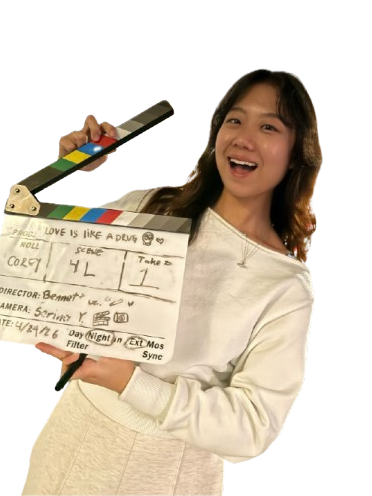
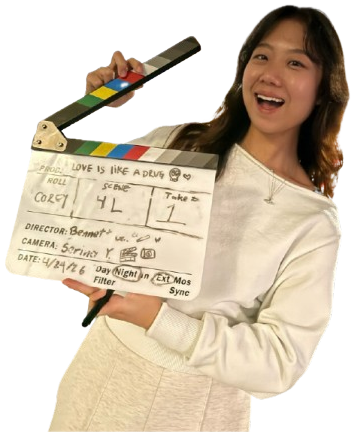
Finish the round: full skills list, blog centering/sizing, tighter landing
- Engineering: replaced the skills-strip with the full categorized
  list (Hardware / Software / Languages / Verification & ML).
- Blog: centered the header and post list (they were flush against
  the left edge with a huge empty right margin on wide screens —
  that's the "on one side only" issue), bumped up the post-row title/
  excerpt font sizes, and enlarged the essay body copy for readability.
- Landing: pulled the photo and intro text closer together.

The grey grid-line background on project/film cards and the BTS
carousel's move to a continuous rolling marquee (no pagination) were
already fixed earlier in this session.

diff --git a/film/index.html b/film/index.html
@@ -25,10 +25,10 @@
   .section-label span { font-size: 0.6rem; letter-spacing: 0.24em; text-transform: uppercase; color: var(--accent); }
   .section-label::after { content: ''; flex: 1; height: 1px; background: var(--border); max-width: 260px; }
 
-  .grid-2 { display: grid; grid-template-columns: repeat(auto-fit, minmax(320px, 1fr)); gap: 1.5px; background: var(--border); border: 1px solid var(--border); }
-  .grid-3 { display: grid; grid-template-columns: repeat(auto-fit, minmax(260px, 1fr)); gap: 1.5px; background: var(--border); border: 1px solid var(--border); }
+  .grid-2 { display: grid; grid-template-columns: repeat(auto-fit, minmax(320px, 1fr)); gap: 20px; }
+  .grid-3 { display: grid; grid-template-columns: repeat(auto-fit, minmax(260px, 1fr)); gap: 20px; }
 
-  .card { background: var(--bg); overflow: hidden; transition: background 0.25s; }
+  .card { background: var(--bg); border: 1px solid var(--border); overflow: hidden; transition: background 0.25s; }
   .card:hover { background: var(--surface); }
 
   .video-wrap { position: relative; padding-bottom: 56.25%; background: #1c1712; }
@@ -45,35 +45,36 @@
   .btn-ghost { display: inline-flex; align-items: center; font-family: 'Source Sans 3', sans-serif; letter-spacing: 0.14em; text-transform: uppercase; text-decoration: none; color: var(--accent); border: 1px solid var(--accent-line); transition: border-color 0.2s, background 0.2s; }
   .btn-ghost:hover { background: var(--accent-soft); }
 
-  .insta-card { background: var(--bg); display: flex; flex-direction: column; }
+  .insta-card { background: var(--bg); border: 1px solid var(--border); display: flex; flex-direction: column; }
   .insta-preview { background: var(--surface); height: 190px; display: flex; flex-direction: column; align-items: center; justify-content: center; gap: 0.8rem; border-bottom: 1px solid var(--border); }
   .insta-icon { width: 46px; height: 46px; }
   .insta-preview p { font-size: 0.65rem; color: var(--muted); letter-spacing: 0.05em; }
   .insta-foot { padding: 1.1rem 1.5rem; display: flex; align-items: center; justify-content: space-between; }
 
-  /* BTS carousel */
-  #bts { padding: 4.5rem 0; }
+  /* BTS -- continuous rolling strip, no pagination */
+  #bts { padding: 4.5rem 0; overflow: hidden; }
   .bts-header { max-width: 1140px; margin: 0 auto 2rem; padding: 0 3rem; }
   .bts-header .section-label { margin-bottom: 0; }
 
-  .bts-carousel { max-width: 1140px; margin: 0 auto; padding: 0 3rem; }
-  .bts-track-wrap { overflow: hidden; border: 1px solid var(--border); }
-  .bts-track { display: flex; transition: transform 0.35s ease; }
-  .bts-slide { flex: 0 0 100%; }
-  .bts-slide img {
-    width: 100%; height: 420px; object-fit: cover; display: block;
-    filter: saturate(0.82) sepia(0.08) contrast(0.96) brightness(1.02);
+  .bts-track {
+    display: flex;
+    gap: 16px;
+    width: max-content;
+    animation: btsScroll 20s linear infinite;
+  }
+  .bts-track:hover { animation-play-state: paused; }
+
+  .bts-slide { flex-shrink: 0; height: 380px; border: 1px solid var(--border); overflow: hidden; }
+  .bts-slide img { height: 100%; width: auto; display: block; object-fit: cover; }
+
+  @keyframes btsScroll {
+    from { transform: translateX(0); }
+    to { transform: translateX(-50%); }
   }
 
-  .bts-controls { display: flex; align-items: center; justify-content: center; gap: 1.5rem; margin-top: 1.2rem; }
-  .bts-arrow {
-    width: 32px; height: 32px; border: 1px solid var(--border-strong); background: transparent;
-    display: flex; align-items: center; justify-content: center; cursor: pointer; color: var(--text);
-    transition: border-color 0.2s, color 0.2s;
+  @media (prefers-reduced-motion: reduce) {
+    .bts-track { animation: none; }
   }
-  .bts-arrow:hover { border-color: var(--accent); color: var(--accent); }
-  .bts-arrow svg { width: 14px; height: 14px; stroke: currentColor; fill: none; stroke-width: 1.6; }
-  .bts-counter { font-size: 0.65rem; letter-spacing: 0.1em; color: var(--muted); min-width: 3.2rem; text-align: center; }
 
   /* in-page sub-nav with scroll-spy, sits just below the sticky main nav */
   .sub-nav {
@@ -235,22 +236,11 @@
     <div class="bts-header">
       <div class="section-label"><span>Behind the Scenes — APCA Fall Short</span></div>
     </div>
-    <div class="bts-carousel">
-      <div class="bts-track-wrap">
-        <div class="bts-track">
-          <div class="bts-slide"><img src="assets/bts-1.jpg" alt="Behind the scenes, part 1"></div>
-          <div class="bts-slide"><img src="assets/bts-2.jpg" alt="Behind the scenes, part 2"></div>
-        </div>
-      </div>
-      <div class="bts-controls">
-        <button class="bts-arrow" data-dir="-1" aria-label="Previous photo">
-          <svg viewBox="0 0 24 24"><polyline points="15 18 9 12 15 6"/></svg>
-        </button>
-        <span class="bts-counter"><span class="bts-current">01</span> / <span class="bts-total">02</span></span>
-        <button class="bts-arrow" data-dir="1" aria-label="Next photo">
-          <svg viewBox="0 0 24 24"><polyline points="9 18 15 12 9 6"/></svg>
-        </button>
-      </div>
+    <div class="bts-track">
+      <div class="bts-slide"><img src="assets/bts-1.jpg" alt="Behind the scenes, part 1"></div>
+      <div class="bts-slide"><img src="assets/bts-2.jpg" alt="Behind the scenes, part 2"></div>
+      <div class="bts-slide" aria-hidden="true"><img src="assets/bts-1.jpg" alt=""></div>
+      <div class="bts-slide" aria-hidden="true"><img src="assets/bts-2.jpg" alt=""></div>
     </div>
   </section>
 

diff --git a/blog/index.html b/blog/index.html
@@ -10,15 +10,15 @@
 <style>
   main { position: relative; z-index: 1; min-height: calc(100vh - 130px); }
 
-  .header { padding: 4.5rem 3rem 3rem; max-width: 720px; }
-  .header-label { font-size: 0.65rem; letter-spacing: 0.24em; text-transform: uppercase; color: var(--accent); margin-bottom: 1.1rem; }
-  .header h1 { font-family: 'Cormorant Garamond', serif; font-size: clamp(2.2rem, 5vw, 3.4rem); font-weight: 500; margin-bottom: 1.2rem; }
+  .header { padding: 4.5rem 3rem 3rem; max-width: 720px; margin: 0 auto; }
+  .header-label { font-size: 0.68rem; letter-spacing: 0.24em; text-transform: uppercase; color: var(--accent); margin-bottom: 1.1rem; }
+  .header h1 { font-family: 'Cormorant Garamond', serif; font-size: clamp(2.8rem, 6vw, 4.2rem); font-weight: 500; margin-bottom: 1.2rem; }
   .header h1 em { font-style: italic; color: var(--accent); font-weight: 400; }
-  .header p { font-size: 0.8rem; color: var(--muted); max-width: 480px; line-height: 1.9; }
+  .header p { font-size: 0.9rem; color: var(--muted); max-width: 480px; line-height: 1.9; }
 
   .divider { margin: 0 3rem; border: none; border-top: 1px solid var(--border); }
 
-  .posts { padding: 2.5rem 3rem 4rem; max-width: 800px; display: flex; flex-direction: column; }
+  .posts { padding: 2.5rem 3rem 4rem; max-width: 800px; margin: 0 auto; display: flex; flex-direction: column; }
 
   .post-row {
     display: flex; justify-content: space-between; align-items: baseline; gap: 1.5rem;
@@ -26,10 +26,10 @@
     text-decoration: none; color: var(--text); transition: opacity 0.2s, padding-left 0.2s;
   }
   .post-row:hover { opacity: 0.75; padding-left: 0.4rem; }
-  .post-row-main { display: flex; flex-direction: column; gap: 0.4rem; }
-  .post-row-title { font-family: 'Cormorant Garamond', serif; font-size: 1.3rem; font-weight: 500; }
-  .post-row-excerpt { font-size: 0.7rem; color: var(--muted); line-height: 1.7; max-width: 46ch; }
-  .post-row-meta { font-size: 0.62rem; letter-spacing: 0.08em; text-transform: uppercase; color: var(--muted); white-space: nowrap; }
+  .post-row-main { display: flex; flex-direction: column; gap: 0.5rem; }
+  .post-row-title { font-family: 'Cormorant Garamond', serif; font-size: 1.7rem; font-weight: 500; }
+  .post-row-excerpt { font-size: 0.9rem; color: var(--muted); line-height: 1.7; max-width: 50ch; }
+  .post-row-meta { font-size: 0.68rem; letter-spacing: 0.08em; text-transform: uppercase; color: var(--muted); white-space: nowrap; }
 
   @media (max-width: 640px) {
     .header, .divider, .posts { padding-left: 1.5rem; padding-right: 1.5rem; }
@@ -53,7 +53,7 @@
 
   <div class="header">
     <p class="header-label">Essays &amp; Notes</p>
-    <h1>Written <em>things</em></h1>
+    <h1>Writing</h1>
   </div>
 
   <hr class="divider">

diff --git a/engineering/index.html b/engineering/index.html
@@ -32,20 +32,20 @@
   .eng-link:hover { border-color: var(--accent); color: var(--accent); }
   .eng-link svg { width: 14px; height: 14px; stroke: currentColor; fill: none; stroke-width: 1.6; }
 
-  .skills-strip { display: flex; justify-content: center; gap: 3rem; flex-wrap: wrap; }
+  .skills-strip { display: flex; justify-content: center; gap: 2.75rem; flex-wrap: wrap; }
+  .skill-group { max-width: 220px; text-align: left; }
   .skill-label { font-size: 0.58rem; letter-spacing: 0.2em; text-transform: uppercase; color: var(--accent); margin-bottom: 0.5rem; }
-  .skill-list { font-size: 0.68rem; color: var(--muted); letter-spacing: 0.04em; line-height: 1.8; }
+  .skill-list { font-size: 0.68rem; color: var(--muted); letter-spacing: 0.02em; line-height: 1.75; }
 
   .projects {
     display: grid;
     grid-template-columns: repeat(auto-fit, minmax(280px, 1fr));
-    gap: 1px;
-    background: var(--border);
-    border: 1px solid var(--border);
+    gap: 20px;
   }
 
   .project-card {
     background: var(--bg);
+    border: 1px solid var(--border);
     padding: 2.1rem 1.8rem;
     display: flex;
     flex-direction: column;
@@ -100,21 +100,21 @@
       </a>
     </div>
     <div class="skills-strip">
-      <div>
-        <p class="skill-label">Languages</p>
-        <p class="skill-list">C / C++<br>JavaScript<br>SQL</p>
-      </div>
-      <div>
-        <p class="skill-label">Web</p>
-        <p class="skill-list">React<br>Node.js / Express<br>HTML / CSS</p>
-      </div>
-      <div>
+      <div class="skill-group">
         <p class="skill-label">Hardware</p>
-        <p class="skill-list">Arduino<br>BLE / I&sup2;C<br>MAX30102 &middot; VL53L0X &middot; HTS221</p>
+        <p class="skill-list">FPGA, Microcontrollers, Digital Logic, FSM, SPI, UART, TCP/IP, DPI, SCPI, Soldering, KiCad, LTspice</p>
       </div>
-      <div>
-        <p class="skill-label">Tools</p>
-        <p class="skill-list">Docker<br>MySQL<br>Git</p>
+      <div class="skill-group">
+        <p class="skill-label">Software</p>
+        <p class="skill-list">React/Next.js, Node.js, RESTful APIs, MySQL, AWS, Docker, Git/GitHub, Jupyter, Google Cloud</p>
+      </div>
+      <div class="skill-group">
+        <p class="skill-label">Languages</p>
+        <p class="skill-list">Python, Java, C, C++, TypeScript/JavaScript, MATLAB, HTML/CSS, Verilog/SystemVerilog</p>
+      </div>
+      <div class="skill-group">
+        <p class="skill-label">Verification &amp; ML</p>
+        <p class="skill-list">QuestaSim, FPGA Testbenches, Waveform Analysis, TinyML, Neural Networks</p>
       </div>
     </div>
   </div>

diff --git a/js/interactions.js b/js/interactions.js
@@ -25,58 +25,4 @@
 
     spySections.forEach(function (s) { spyIO.observe(s.section); });
   }
-
-  // BTS carousel (film page)
-  document.querySelectorAll('.bts-carousel').forEach(function (carousel) {
-    var track = carousel.querySelector('.bts-track');
-    var slides = carousel.querySelectorAll('.bts-slide');
-    var prevBtn = carousel.querySelector('.bts-arrow[data-dir="-1"]');
-    var nextBtn = carousel.querySelector('.bts-arrow[data-dir="1"]');
-    var currentEl = carousel.querySelector('.bts-current');
-    var totalEl = carousel.querySelector('.bts-total');
-    var total = slides.length;
-    var index = 0;
-    if (!track || !total) return;
-
-    function pad(n) { return n < 10 ? '0' + n : String(n); }
-
-    function render() {
-      track.style.transform = 'translateX(-' + (index * 100) + '%)';
-      if (currentEl) currentEl.textContent = pad(index + 1);
-    }
-
-    function go(dir) {
-      index = (index + dir + total) % total;
-      render();
-    }
-
-    if (totalEl) totalEl.textContent = pad(total);
-    if (prevBtn) prevBtn.addEventListener('click', function () { go(-1); stopAuto(); startAuto(); });
-    if (nextBtn) nextBtn.addEventListener('click', function () { go(1); stopAuto(); startAuto(); });
-
-    carousel.setAttribute('tabindex', '0');
-    carousel.addEventListener('keydown', function (e) {
-      if (e.key === 'ArrowLeft') { go(-1); stopAuto(); startAuto(); }
-      if (e.key === 'ArrowRight') { go(1); stopAuto(); startAuto(); }
-    });
-
-    // Auto-advance so it reads as a moving carousel, not a static image.
-    // Pauses on hover/focus and respects reduced-motion.
-    var reduceMotion = window.matchMedia('(prefers-reduced-motion: reduce)').matches;
-    var timer = null;
-    function startAuto() {
-      if (reduceMotion || total < 2) return;
-      timer = setInterval(function () { go(1); }, 3000);
-    }
-    function stopAuto() {
-      if (timer) { clearInterval(timer); timer = null; }
-    }
-    carousel.addEventListener('mouseenter', stopAuto);
-    carousel.addEventListener('mouseleave', startAuto);
-    carousel.addEventListener('focusin', stopAuto);
-    carousel.addEventListener('focusout', startAuto);
-
-    render();
-    startAuto();
-  });
 })();

diff --git a/blog/posts/early-childhood-literacy-and-college-admission.html b/blog/posts/early-childhood-literacy-and-college-admission.html
@@ -21,7 +21,7 @@
   .byline { font-size: 0.7rem; color: var(--muted); letter-spacing: 0.03em; margin-bottom: 2.6rem; padding-bottom: 2.2rem; border-bottom: 1px solid var(--border); }
   .byline span { display: block; margin-top: 0.15rem; }
 
-  article p { font-size: 0.85rem; color: var(--muted); line-height: 2; margin-bottom: 1.5rem; max-width: 62ch; }
+  article p { font-size: 1rem; color: var(--muted); line-height: 1.95; margin-bottom: 1.5rem; max-width: 68ch; }
   article p.lede::first-letter {
     color: var(--accent);
     font-family: 'Cormorant Garamond', serif;

diff --git a/index.html b/index.html
@@ -27,8 +27,8 @@
     margin: 0 auto;
     padding: 0 3rem;
     display: grid;
-    grid-template-columns: minmax(320px, 460px) 1fr;
-    gap: 4.5rem;
+    grid-template-columns: minmax(280px, 380px) 1fr;
+    gap: 2.5rem;
     align-items: center;
   }
 
